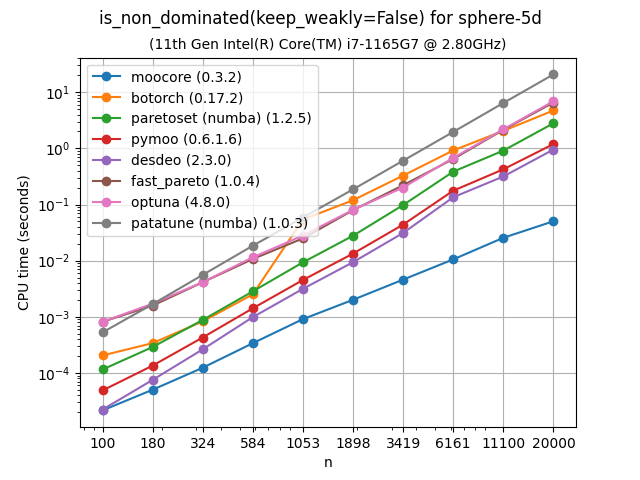
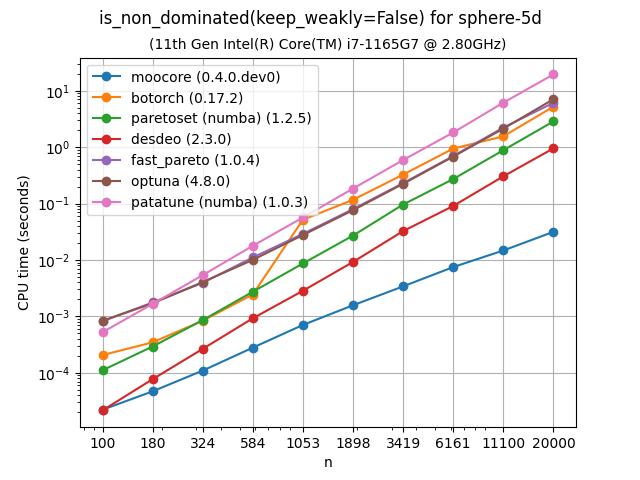
* python/doc/source/benchmarks.inc.rst: pymoo uses moocore now.  * python/benchmarks/bench_ndom.py: Likewise.  * python/doc/source/_static/bench/ndom_bench-*.png: Regenerate.  * python/doc/source/_static/bench/wndom_bench-*.png: Likewise.

diff --git a/python/benchmarks/bench_ndom.py b/python/benchmarks/bench_ndom.py
@@ -16,9 +16,6 @@ import torch
 from botorch.utils.multi_objective.pareto import (
     is_non_dominated as botorch_is_nondominated,
 )
-from pymoo.util.nds.non_dominated_sorting import (
-    NonDominatedSorting as pymoo_NonDominatedSorting,
-)
 
 from desdeo.tools.non_dominated_sorting import (
     non_dominated as desdeo_is_nondominated,
@@ -87,9 +84,6 @@ for name in names:
                 z, sense=z.shape[1] * ["max"], distinct=False, use_numba=True
             )
         ),
-        "pymoo": lambda z, nds=pymoo_NonDominatedSorting(): nds.do(
-            -z, only_non_dominated_front=True
-        ),
         "desdeo": lambda z: bool2pos(desdeo_is_nondominated(-z)),
         "fast_pareto": lambda z: bool2pos(
             fast_pareto_is_pf(-z, assume_unique_lexsorted=False)
@@ -139,11 +133,6 @@ for name in names:
             paretoset(
                 z, sense=z.shape[1] * ["max"], distinct=True, use_numba=True
             )
-        ),
-        # The following packages do not support deduplication so they are
-        # actually slower because the user needs to remove duplicates.
-        "pymoo": lambda z, nds=pymoo_NonDominatedSorting(): nds.do(
-            -z, only_non_dominated_front=True
         ),
         "desdeo": lambda z: bool2pos(desdeo_is_nondominated(-z)),
         "fast_pareto": lambda z: bool2pos(

diff --git a/python/doc/source/benchmarks.inc.rst b/python/doc/source/benchmarks.inc.rst
@@ -19,10 +19,11 @@ to include in the benchmarks.
 Not all packages provide the same functionality. For example, `pymoo`_ does not
 provide the :ref:`epsilon indicator <epsilon_metric>`. `BoTorch`_ and
 `paretobench`_ only provide the hypervolume. `paretoset`_ and `fast-pareto`_
-only identify nondominated points. `seqme`_ already uses `moocore`_, and
-`DESDEO`_, `DEAP`_, `pymoo`_ and `jMetalPy`_ also use `moocore`_ for computing
-the hypervolume, but other functionality, such as filtering dominated points,
-is still slower than `moocore`_.
+only identify nondominated points.  `DESDEO`_, `DEAP`_, and `jMetalPy`_ use
+`moocore`_ for computing the hypervolume, but other functionality, such as
+filtering dominated points, is still slower than `moocore`_.  Recent versions
+of `seqme`_ and `pymoo`_ (≥0.6.2) already use `moocore`_ for most functionality
+benchmarked here.
 
 We would like to benchmark `pygmo`_, however, it is currently impossible to install using ``pip`` (See https://github.com/esa/pygmo2/issues/152).
 
